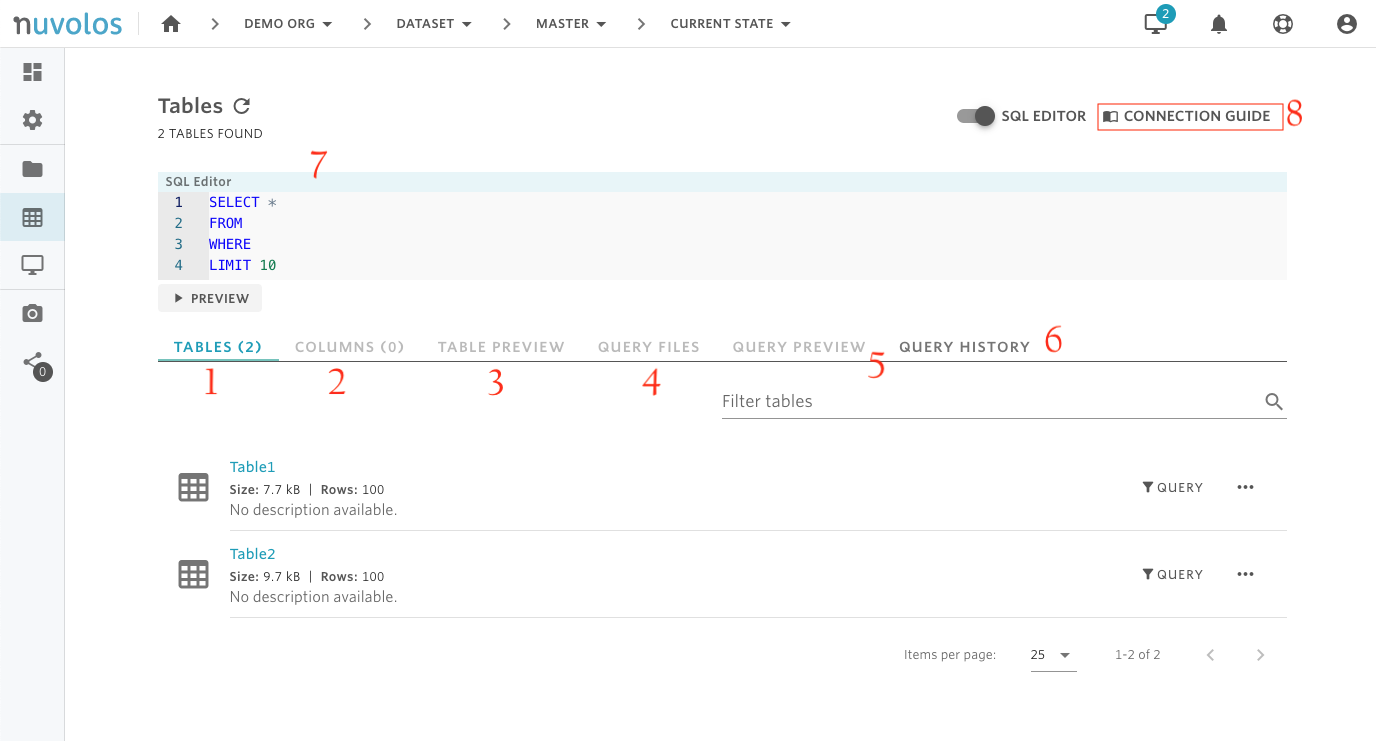
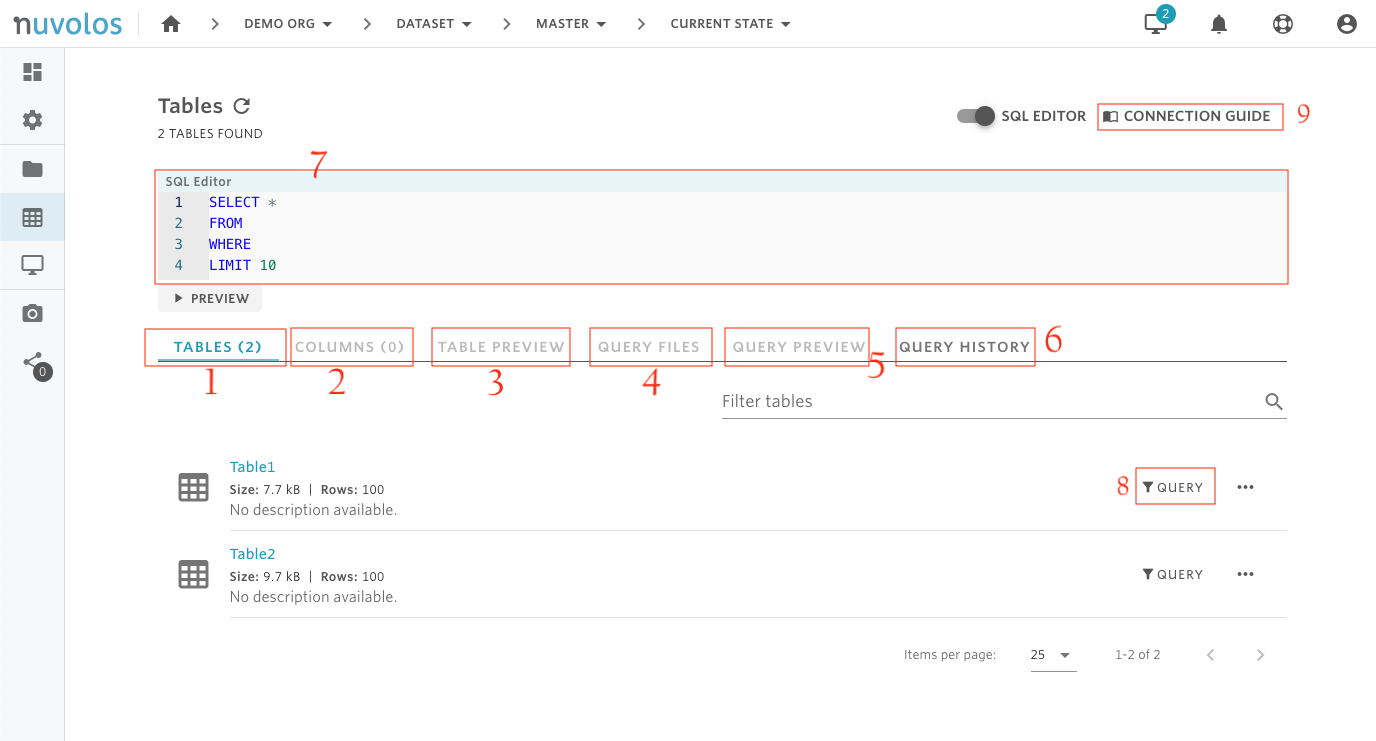
GitBook: [1.2.0] one page and 4 assets modified

diff --git a/data/the-table-view.md b/data/the-table-view.md
@@ -8,7 +8,7 @@ The Tables view can be found in the sidebar once you are viewing work in a state
 
 ## Overview
 
-![](../.gitbook/assets/screen-shot-2020-11-19-at-10.50.34-am%20%281%29.png)
+![](../.gitbook/assets/screen-shot-2020-11-19-at-10.50.34-am.png)
 
 The functionalities as a list:
 
@@ -40,9 +40,15 @@ In order to guide documentation, it is also possible to give a description to co
 
 It is possible to run queries directly from the web interface. Currently, only SELECT queries are allowed. For the complete syntax of such a construct, please refer to the [database system documentation](https://docs.snowflake.com/en/sql-reference/constructs.html).
 
-1- Design your SQL query in the query editor. Once you are done, click **PREVIEW**.
+1- Design your SQL query in the query editor or via the query builder. 
+
+* From the SQL editor, you can directly type in your query and then click on PREVIEW.
 
 ![](../.gitbook/assets/screen-shot-2020-03-17-at-1.14.04-pm.png)
+
+* From the query builder, you first need to open it via the QUERY button and then follow the steps where you can select columns, add filters, number of rows, and finally click on "SUBMIT QUERY PREVIEW"
+
+![](../.gitbook/assets/screen-shot-2020-11-19-at-11.25.58-am.png)
 
 2- Review the results. If what you see makes sense, you can proceed to run the entire query by clicking **SAVE FULL RESULTS** on the query preview:
 
